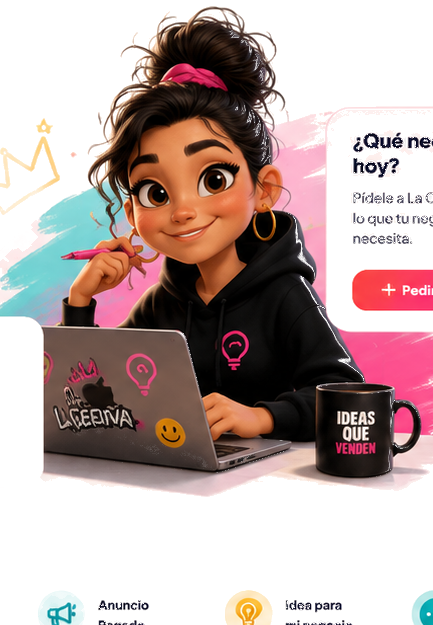
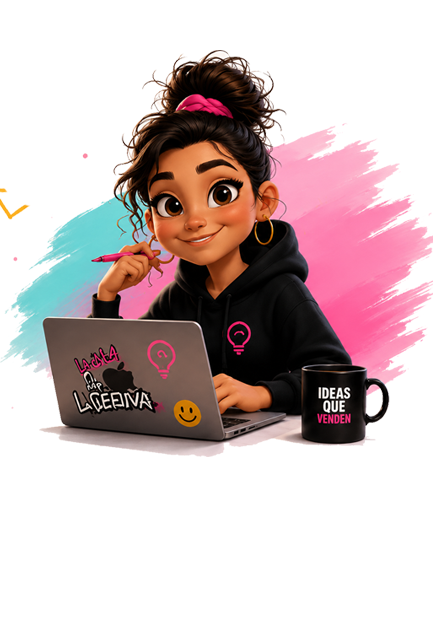
Contenido: hub de La Creativa pulido en movil + acceso a calendario
- Fix responsive del hub (aprobar2.php): el titulo ya no se corta en movil
  (.cux-hero align-items:stretch + .cux-hero-copy width:100%); La Creativa
  crece con el viewport (.cux-vis width:min(92vw,420px)).
- Titulos del hub en Oswald 700 (consistente con el dashboard panel/index.php).
- Eliminado el "badge" roto del card .cux-done: todo_al_dia_badge.png era en
  realidad un mockup completo de otro card, no un badge; se veia encimado.
- Boton secundario "Ver calendario" en el hero: la portada habia perdido el
  acceso al calendario al convertirse en hub.

diff --git a/panel/aprobar2.php b/panel/aprobar2.php
@@ -408,30 +408,30 @@ require __DIR__ . '/_shell.php';
   $CX = '/crecer/assets/crecer-contenido';
   $url = fn($t) => "/crecer/panel/aprobar2.php?marca={$marca_id}".($t?"&tab={$t}":"");
 ?>
+<link href="https://fonts.googleapis.com/css2?family=Oswald:wght@500;600;700&display=swap" rel="stylesheet">
 <style>
-  .cux{max-width:1080px}
+  .cux{max-width:1080px;overflow-x:clip}
+  .cux img{max-width:100%}
   .cux-hero{position:relative;display:flex;align-items:center;gap:18px;flex-wrap:wrap;margin:4px 0 0;padding:8px 0 0}
   .cux-hero-copy{flex:1 1 320px;min-width:0;position:relative;z-index:3}
   .cux-agent{text-transform:uppercase;color:var(--terracota);font-weight:900;font-size:15px;letter-spacing:.06em;margin-bottom:8px}
-  .cux-h1{font-family:var(--font-impact);text-transform:uppercase;font-size:clamp(38px,5.4vw,62px);line-height:.9;letter-spacing:.01em;margin:0;color:var(--tinta)}
+  .cux-h1{font-family:var(--font-impact);text-transform:uppercase;font-size:clamp(44px,6.4vw,78px);line-height:.95;letter-spacing:.6px;margin:0;color:var(--tinta)}
   .cux-h1 .g{background:linear-gradient(120deg,var(--coral),var(--magenta));-webkit-background-clip:text;background-clip:text;color:transparent}
-  .cux-hb{display:block;width:min(380px,82%);margin:2px 0 0;filter:drop-shadow(0 8px 14px rgba(192,57,95,.18))}
   .cux-hero-copy p{font-size:16px;line-height:1.5;color:var(--muted);max-width:44ch;margin-top:14px}
-  .cux-vis{flex:0 0 auto;position:relative;width:230px;align-self:flex-end}
-  .cux-vis .bbg{position:absolute;left:-26px;right:-26px;bottom:-10px;top:-26px;width:auto;height:auto;z-index:1;opacity:.5;object-fit:contain;pointer-events:none}
-  .cux-vis .crea{position:relative;z-index:2;width:100%;display:block;pointer-events:none;filter:drop-shadow(0 20px 26px rgba(40,20,20,.16))}
-  .cux-vis .crown{position:absolute;top:-8px;left:-8px;width:58px;z-index:3;opacity:.85;pointer-events:none}
-  .cux-need{flex:0 0 280px;position:relative;z-index:3;background:var(--card);border:1px solid var(--line);border-radius:24px;box-shadow:var(--shadow);padding:24px}
-  .cux-need h3{font-family:var(--font-impact);text-transform:uppercase;font-size:23px;margin:0 0 9px;color:var(--tinta);letter-spacing:.01em}
-  .cux-need p{font-size:14px;color:var(--muted);margin:0 0 18px}
-  .cux-need button{width:100%;border:0;border-radius:14px;background:linear-gradient(120deg,var(--coral),var(--magenta));color:#fff;font-weight:800;font-size:15px;padding:14px;cursor:pointer;font-family:inherit;box-shadow:0 12px 24px -10px rgba(192,57,95,.5)}
+  .cux-vis{flex:0 0 auto;width:340px;max-width:40vw;align-self:flex-end}
+  .cux-vis .crea{width:100%;max-width:100%;height:auto;display:block;pointer-events:none;filter:drop-shadow(0 24px 32px rgba(40,20,20,.18))}
+  .cux-actions{display:flex;gap:10px;align-items:stretch;flex-wrap:wrap;margin-top:20px}
+  .cux-cta{display:inline-flex;align-items:center;gap:8px;border:0;border-radius:14px;background:linear-gradient(120deg,var(--coral),var(--magenta));color:#fff;font-weight:800;font-size:15px;padding:14px 28px;cursor:pointer;font-family:inherit;box-shadow:0 14px 28px -10px rgba(192,57,95,.5)}
+  .cux-cta2{display:inline-flex;align-items:center;justify-content:center;gap:8px;border-radius:14px;border:1.5px solid var(--line);background:#fff;color:var(--tinta);font-weight:800;font-size:15px;padding:14px 22px;cursor:pointer;font-family:inherit;text-decoration:none}
+  .cux-cta2:hover{border-color:var(--terracota);color:var(--terracota)}
+  .cux-cta2 .ic{width:18px;height:18px}
 
   .cux-stats{display:grid;grid-template-columns:repeat(3,1fr);gap:14px;margin-top:26px}
   .cux-stat{background:var(--card);border:1px solid var(--line);border-radius:18px;box-shadow:var(--shadow-sm);padding:20px 22px;text-decoration:none;color:inherit;transition:transform .18s,box-shadow .18s}
   .cux-stat:hover{transform:translateY(-4px);box-shadow:0 18px 36px -18px rgba(40,28,12,.3)}
   .cux-si{width:48px;height:48px;border-radius:50%;display:grid;place-items:center;font-size:22px;font-weight:900;margin-bottom:12px}
   .cux-si.yel{background:#fff0bd;color:#c98a00}.cux-si.pnk{background:color-mix(in srgb,var(--terracota) 16%,#fff);color:var(--terracota)}.cux-si.cya{background:#d9fbfd;color:var(--teal)}
-  .cux-stat strong{font-family:var(--font-impact);font-size:44px;line-height:1;color:var(--tinta)}
+  .cux-stat strong{font-weight:800;font-size:44px;line-height:1;color:var(--tinta)}
   .cux-stat h4{text-transform:uppercase;font-size:13px;letter-spacing:.03em;margin:6px 0 4px;color:var(--tinta)}
   .cux-stat .sub{color:var(--muted);font-size:13px;margin:0 0 12px}
   .cux-stat .lk{color:var(--terracota);font-weight:800;font-size:13.5px}
@@ -460,7 +460,6 @@ require __DIR__ . '/_shell.php';
   .cux-done{background:linear-gradient(135deg,var(--terracota),var(--magenta));color:#fff;position:relative;overflow:hidden}
   .cux-done h2{font-family:var(--font-impact);text-transform:uppercase;font-size:30px;margin:0 0 12px;letter-spacing:.01em}
   .cux-done p{font-size:15.5px;line-height:1.45;opacity:.95;margin:0;max-width:34ch}
-  .cux-badge{position:absolute;right:-10px;top:-6px;width:120px;opacity:.9;pointer-events:none}
   .cux-done-actions{display:flex;gap:10px;flex-wrap:wrap;margin-top:22px}
   .cux-done-actions a,.cux-done-actions button{border:0;cursor:pointer;font-family:inherit;background:#fff;color:var(--terracota);font-weight:800;font-size:13.5px;border-radius:12px;padding:11px 16px;text-decoration:none}
   .cux-idea{background:#fff;border:1px solid var(--line);border-radius:14px;padding:13px 15px;margin-bottom:10px}
@@ -468,7 +467,19 @@ require __DIR__ . '/_shell.php';
   .cux-idea em{display:inline-block;margin-top:8px;font-style:normal;background:#fff0bd;color:#c18400;border-radius:999px;padding:3px 10px;font-size:11px;font-weight:800}
   .cux-ideas a{color:var(--terracota);font-weight:800;font-size:13.5px;text-decoration:none}
   @media(max-width:1100px){.cux-lower{grid-template-columns:1fr}.cux-qgrid{grid-template-columns:repeat(2,1fr)}}
-  @media(max-width:720px){.cux-stats{grid-template-columns:1fr}.cux-qgrid{grid-template-columns:1fr}.cux-vis{order:-1;width:200px;margin:0 auto}.cux-need{flex:1 1 100%}}
+  @media(max-width:720px){
+    .cux-hero{flex-direction:column;align-items:stretch;text-align:center;gap:6px}
+    .cux-hero-copy{flex:1 1 100%;width:100%}
+    .cux-h1{font-size:clamp(27px,7vw,44px);letter-spacing:.2px}
+    .cux-hero-copy p{margin-left:auto;margin-right:auto}
+    .cux-actions{flex-direction:column}
+    .cux-cta,.cux-cta2{width:100%;justify-content:center}
+    .cux-vis{order:-1;width:min(92vw,420px);max-width:none;margin:-4px auto 2px}
+    .cux-stats{grid-template-columns:1fr}
+    .cux-qgrid{grid-template-columns:1fr}
+  }
+  /* Tipografía: headings en Oswald 700 (consistente con el dashboard) */
+  .cux-h1,.cux-quick h3,.cux-card h3,.cux-done h2{font-family:'Oswald',sans-serif;font-weight:700;letter-spacing:.4px;line-height:1.0}
 </style>
 
 <div class="cux">
@@ -476,18 +487,14 @@ require __DIR__ . '/_shell.php';
     <div class="cux-hero-copy">
       <div class="cux-agent">La Creativa</div>
       <h1 class="cux-h1">Tu contenido,<br><span class="g">en buenas manos</span></h1>
-      <img class="cux-hb" src="<?= $CX ?>/headline_brush.png" alt="">
       <p>La Creativa está ideando, escribiendo y preparando contenido pa' hacer crecer tu negocio.</p>
+      <div class="cux-actions">
+        <button type="button" class="cux-cta" onclick="abrirBrief()">＋ Pedir contenido</button>
+        <a class="cux-cta2" href="/crecer/panel/calendario.php?marca=<?= $marca_id ?>"><?= ico('calendar') ?> Ver calendario</a>
+      </div>
     </div>
     <div class="cux-vis">
-      <img class="bbg" src="<?= $CX ?>/hero_pink_brush.png" alt="">
-      <img class="crown" src="<?= $CX ?>/tiny_crown.png" alt="">
-      <img class="crea" src="<?= $CX ?>/creativa_character.png" alt="La Creativa">
-    </div>
-    <div class="cux-need">
-      <h3>¿Qué necesitas hoy?</h3>
-      <p>Pídele a La Creativa lo que tu negocio necesita.</p>
-      <button type="button" onclick="abrirBrief()">＋ Pedir contenido</button>
+      <img class="crea" src="<?= $CX ?>/creativa_character_clean.png" alt="La Creativa">
     </div>
   </section>
 
@@ -511,7 +518,7 @@ require __DIR__ . '/_shell.php';
 
   <section class="cux-lower">
     <article class="cux-card">
-      <h3>Actividad reciente del corillo</h3>
+      <h3>Lo que hizo el corillo hoy</h3>
       <?php if (!$timeline): ?>
         <p class="cux-soft">Todavía no hay actividad. Pídele algo a La Creativa y aquí verás lo que hace el corillo. 👇</p>
       <?php else: ?>
@@ -525,7 +532,6 @@ require __DIR__ . '/_shell.php';
     </article>
 
     <article class="cux-card cux-done">
-      <img class="cux-badge" src="<?= $CX ?>/todo_al_dia_badge.png" alt="">
       <?php if ($n_pend == 0): ?>
         <h2>¡Todo al día! 🔥</h2>
         <p>No tienes nada pendiente de aprobar. La Creativa y el corillo están trabajando en lo próximo.</p>

diff --git a/HANDOFF.md b/HANDOFF.md
@@ -1,0 +1,88 @@
+# HANDOFF — Estado actual (para continuar en VS Code)
+
+> Lee este archivo primero. Resume dónde quedamos para seguir sin perder contexto.
+> Última actualización: 2026-06-21.
+
+## En qué estamos ahora mismo
+Refinando la **página de "La Creativa"** = el **hub/portada de Contenido**, que vive en
+**`panel/aprobar2.php`** (bloque `if ($es_hub)`, clases con prefijo `.cux`).
+
+- `aprobar2.php?marca=X` (sin `tab`) → **HUB** (portada: hero La Creativa, métricas, quick
+  actions, timeline "Lo que hizo el corillo hoy", "todo al día", ideas).
+- `aprobar2.php?marca=X&tab=pendientes|aprobados` → **fábrica de posts** (tarjetas, aprobar,
+  publicar, estudio de arte). NO tocar esta parte.
+
+## ✅ BUG RESUELTO (verificado a 360/390/414px con CDP/puppeteer)
+**El hub ya no se rompe en móvil.** Verificado: `docSW == vw` (sin scroll horizontal),
+`.cux`/`.cux-hero-copy`/`.cux-h1` = 324px a 360px de viewport. El título y la imagen
+quedan dentro del encuadre y apilan limpio.
+- **Causa real:** en `@media(max-width:720px)` el `.cux-hero` mantenía `align-items:center`,
+  así que `.cux-hero-copy` colapsaba a su ancho *max-content* (el título en una sola línea)
+  y se desbordaba; `overflow-x:clip` ocultaba la cola → el título "EN BUENAS MANOS" se veía
+  cortado ("EN BUENAS MANC"). No era el brush `.bbg` (ya estaba removido).
+- **Fix aplicado** en `panel/aprobar2.php`, bloque `@media(max-width:720px)`:
+  `.cux-hero{align-items:stretch}` + `.cux-hero-copy{width:100%}` (deja envolver el título) +
+  `.cux-h1{font-size:clamp(31px,8.2vw,48px);letter-spacing:.2px}` (tamaño móvil).
+- **Nota de verificación:** el screenshot por `chrome --headless --window-size=360` NO es
+  fiable en Windows (impone ancho mínimo ~480px; el viewport real no es 360). Usar CDP
+  (`puppeteer-core` con `page.setViewport({width:360})`) para emular bien el móvil.
+- Pendiente cosmético opcional: el PNG `creativa_character_clean.png` trae corona+brush rosa
+  horneados en la imagen (no es CSS). Si se quiere quitar, hay que editar el asset.
+
+## Cambios hechos en esta sesión (refinamiento La Creativa) — SIN COMMIT
+Archivo: `panel/aprobar2.php` + asset nuevo `assets/crecer-contenido/creativa_character_clean.png`.
+1. **Hero**: quitada la card `.cux-need` y la corona; se usa `creativa_character_clean.png`;
+   La Creativa más grande (protagonista); CTA "＋ Pedir contenido" integrado debajo del copy.
+2. **Tipografía**: títulos (`.cux-h1`, `.cux-quick h3`, `.cux-card h3`, `.cux-done h2`) en
+   **Oswald 700** (letter-spacing .4px, line-height 1.0), igual que el dashboard
+   `panel/index.php` → consistencia en todo el panel. Cuerpo/botones/labels/métricas en
+   Plus Jakarta Sans. **DECISIÓN CERRADA** (Manuel: Bebas era "muy fina"; A/B confirmó
+   que Oswald 700 da más punch). Móvil: `.cux-h1` = `clamp(27px,7vw,44px)`.
+3. **Feed**: "Actividad reciente del corillo" → **"Lo que hizo el corillo hoy"** (timeline
+   real desde `crecer_ia_log`).
+4. **Responsive móvil (RESUELTO)**: `@media(max-width:720px)` apila el hero centrado.
+   Fix: `.cux-hero{align-items:stretch}` + `.cux-hero-copy{width:100%}` (deja envolver el
+   título). La Creativa ahora crece con el viewport: `.cux-vis{width:min(92vw,420px)}`.
+5. **Badge roto (RESUELTO)**: el card `.cux-done` tenía un `<img class="cux-badge"
+   src="todo_al_dia_badge.png">` que en realidad era un *screenshot completo de otra versión
+   del card* (no un badge) — se veía como un card encimado con fill de imagen. Eliminado el
+   img y su CSS. El PNG `todo_al_dia_badge.png` quedó huérfano (se puede borrar del repo).
+6. **Acceso a calendario (RESUELTO)**: al volver Contenido un hub, la portada perdió el link
+   al calendario (solo quedaba en el toggle "Lista/Calendario" de la fábrica `?tab=...`).
+   Añadido botón secundario outline **"📅 Ver calendario"** junto al CTA en el hero
+   (`.cux-actions` + `.cux-cta2`), apila en móvil.
+
+## Estado de git / deploy
+- Repo: `github.com/icaro2004-ux/crecer`, rama `main`. Último commit pusheado: **`79397a1`**
+  (landing full-bleed + dashboard feed/Oswald + hub de Contenido).
+- **SIN commit todavía**: el refinamiento de La Creativa de esta sesión (Manuel pidió no
+  commitear hasta aprobar). `git status` mostrará `panel/aprobar2.php` modificado y el PNG nuevo.
+
+## ⚠ Gotcha de producción (IMPORTANTE)
+El deploy de Hostinger **borra `includes/config.local.php`** (está en `.gitignore`, no va al
+repo). Tras cada push, el sitio da **"Servicio no disponible" / 500** en login y panel hasta
+que se vuelve a subir ese archivo al servidor.
+- Fix temporal: subir por FileZilla `_deploy/config.local.php` → `public_html/crecer/includes/config.local.php`.
+- **Fix permanente pendiente**: que el config sobreviva al deploy (leerlo de una ruta fuera
+  del repo, o de variables de entorno de Hostinger). NO resuelto aún.
+- Credenciales prod (DB): user `u785811842_info`, pass `Encuentral0_DB`, db `u785811842_encuentralo`.
+
+## Cómo probar local
+Login local: `jmp.arch.eng@gmail.com` (es admin). XAMPP corriendo. La BD local tiene su
+propio `includes/config.local.php` (funciona).
+
+## PRÓXIMA SESIÓN (lo primero)
+- **TARIFARIO / precios del paquete** — Manuel quiere hablarlo. Definir oferta y precio
+  (sigue "por definir" en CLAUDE.md). Es lo primero que retomamos.
+- Los cambios de esta sesión siguen **SIN COMMIT** (regla de Manuel: no commitear hasta
+  aprobar). `git status`: `panel/aprobar2.php` modificado + assets. Cuando apruebe, juntar
+  todo en un commit (fix móvil + Oswald + nena responsive + badge roto + botón calendario).
+
+## Pendientes mayores
+- Stripe LIVE (cuenta activar → product/price ids → webhook secret).
+- App de Meta para auto-publicar (falta App ID/Secret + App Review).
+- Fix permanente del config en deploy.
+
+## Reglas de Manuel
+Tono directo, sin floritura. Refinar incremental, no rediscñar. Boricua auténtico. Ver
+`CLAUDE.md` para el contexto del producto y las reglas del XPRIZE.
